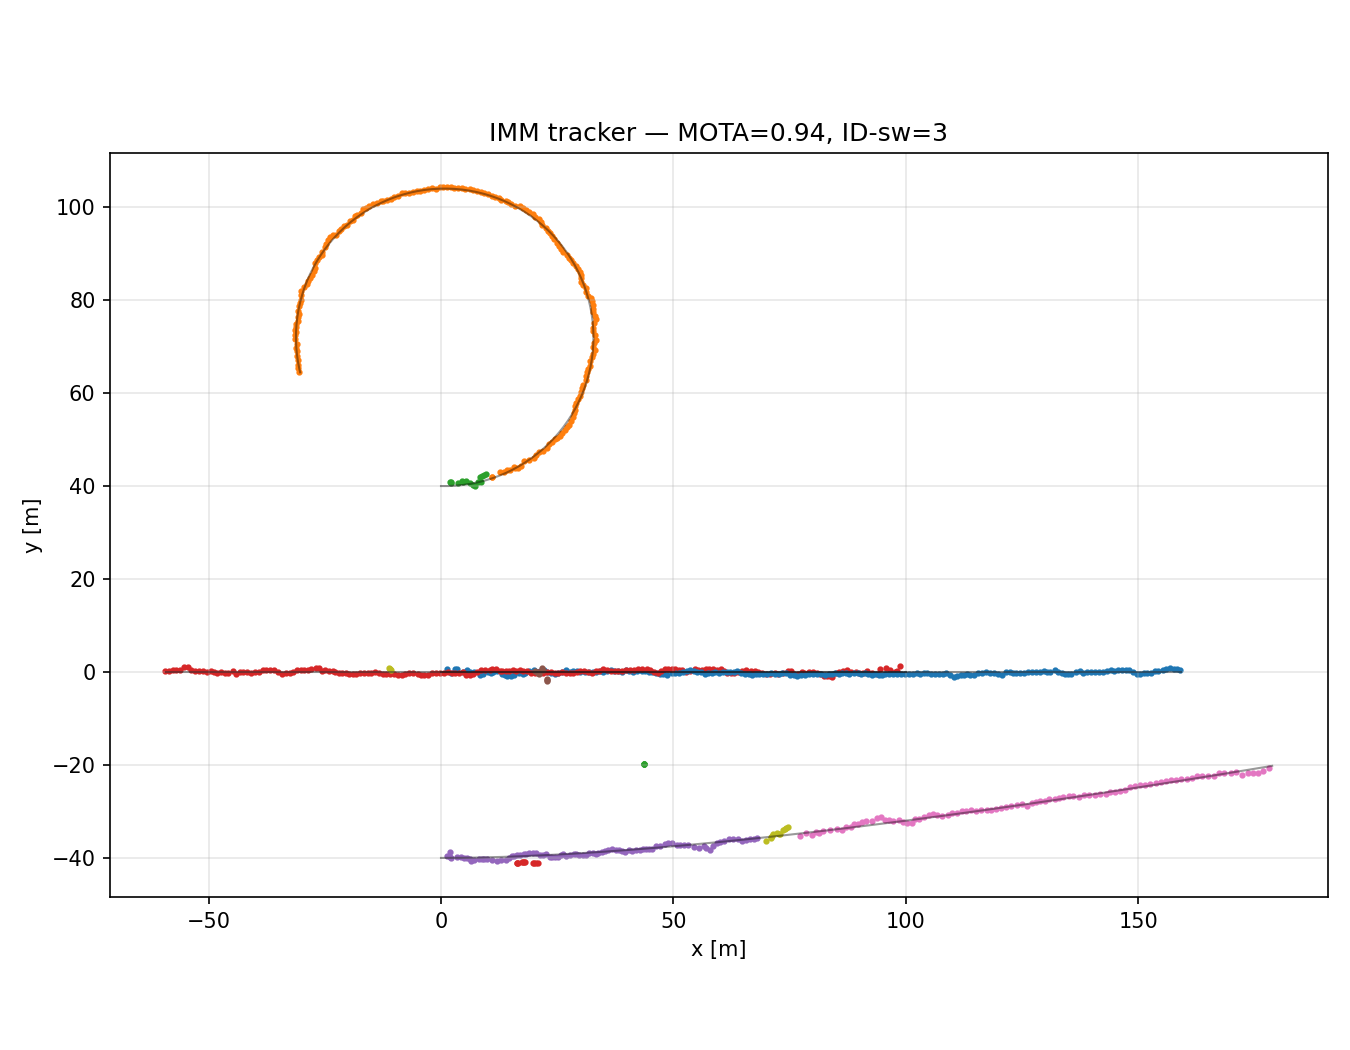
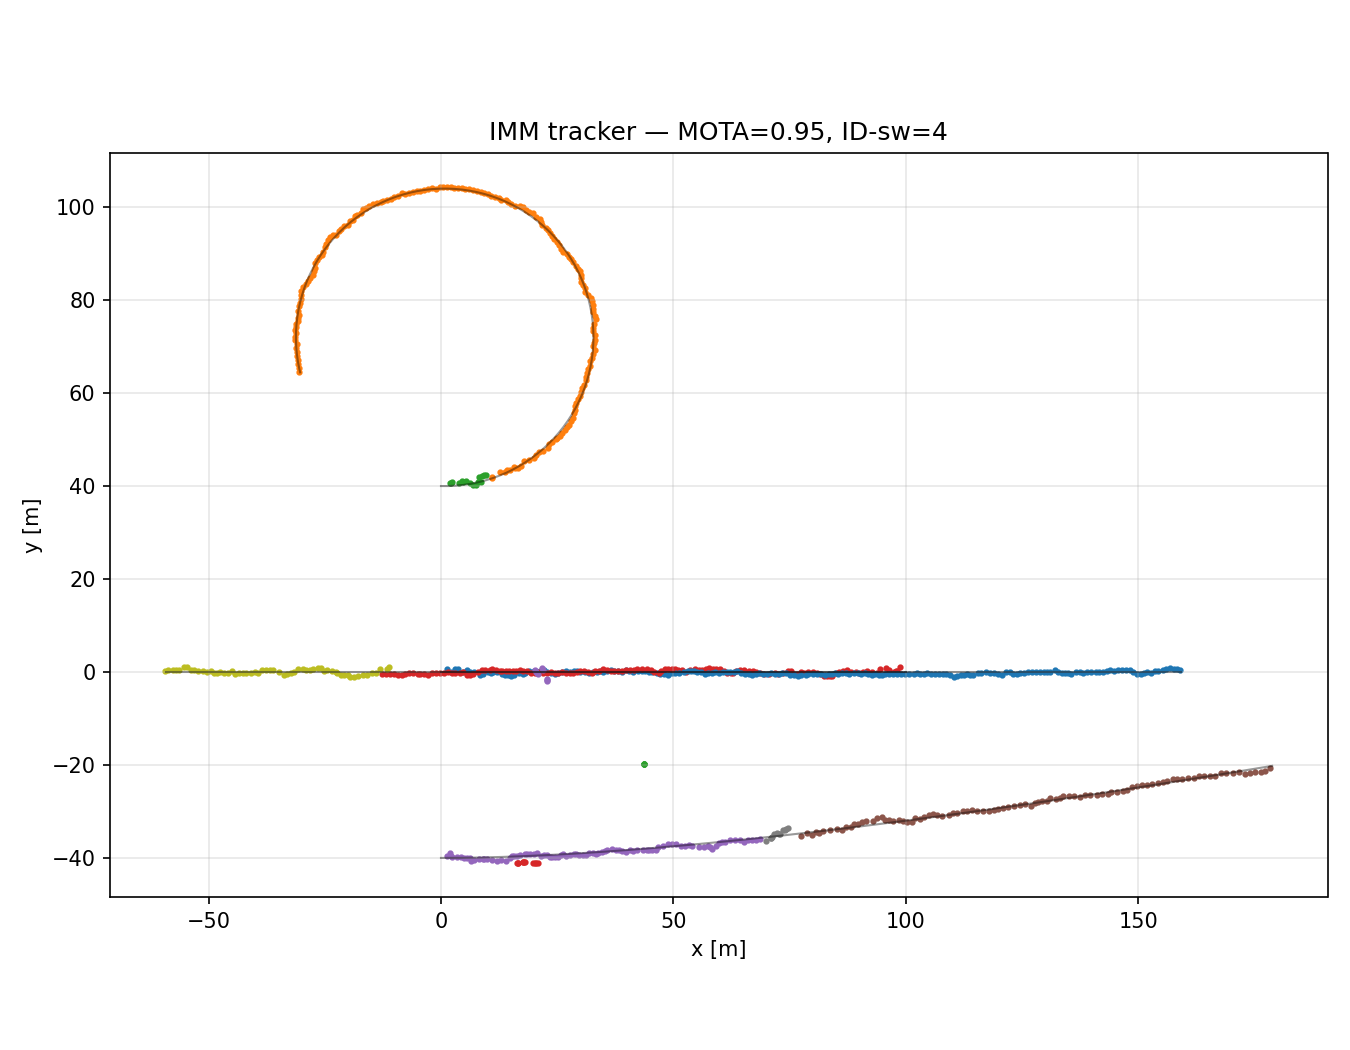
correct CA reference covariance round-trip

diff --git a/prototypes/python/tests/test_filter_invariants.py b/prototypes/python/tests/test_filter_invariants.py
@@ -3,7 +3,15 @@ from __future__ import annotations
 import numpy as np
 
 from ekf_synthetic import measurement_jacobian, measurement_model, wrap_angle
-from imm_synthetic import NUM_MODES, ImmScenarioConfig, mix_imm
+from imm_synthetic import (
+    CA_DIM,
+    NUM_MODES,
+    ImmScenarioConfig,
+    ca_matrices,
+    mix_imm,
+    ref_from_ca,
+    ref_to_ca,
+)
 from linear_kf import STATE_DIM, ScenarioConfig, cv_matrices, run_single_trial
 from ukf_synthetic import sigma_points, unscented_weights, weighted_covariance, weighted_mean
 
@@ -105,3 +113,31 @@ def test_imm_mixing_probabilities_and_covariances_are_well_formed() -> None:
         assert x.shape == (STATE_DIM,)
         assert p.shape == (STATE_DIM, STATE_DIM)
         assert_symmetric_psd(p)
+
+
+def test_ca_reference_conversion_is_an_exact_round_trip() -> None:
+    # ref_to_ca inflates [x,y,vx,vy] to the 6-state CA layout; ref_from_ca deflates it back.
+    # Distinct variances on every axis so any index permutation shows up (regression: ref_to_ca
+    # used np.ix_([0,2,1,3],...) and silently swapped var(y) with var(vx)).
+    x_ref = np.array([10.0, 20.0, 1.0, 2.0])
+    p_ref = np.diag([1.0, 2.0, 100.0, 200.0])
+
+    x_ca, p_ca = ref_to_ca(x_ref, p_ref)
+    assert x_ca.shape == (CA_DIM,)
+    assert p_ca.shape == (CA_DIM, CA_DIM)
+    np.testing.assert_allclose(x_ca[:STATE_DIM], x_ref, rtol=0.0, atol=1e-12)
+    assert_symmetric_psd(p_ca)
+
+    x_back, p_back = ref_from_ca(x_ca, p_ca)
+    np.testing.assert_allclose(x_back, x_ref, rtol=0.0, atol=1e-12)
+    np.testing.assert_allclose(p_back, p_ref, rtol=0.0, atol=1e-12)
+
+
+def test_ca_state_layout_is_x_y_vx_vy_ax_ay() -> None:
+    # The round-trip test above is only meaningful if CA really is [x,y,vx,vy,ax,ay].
+    # Pin it from F directly: x' = x + dt*vx + 0.5*dt^2*ax touches columns 0, 2, 4.
+    dt = 0.1
+    f, h, _, _ = ca_matrices(dt, sigma_pos=0.5, q_accel=2.0)
+    np.testing.assert_allclose(f[0], [1.0, 0.0, dt, 0.0, 0.5 * dt * dt, 0.0], atol=1e-12)
+    np.testing.assert_allclose(f[1], [0.0, 1.0, 0.0, dt, 0.0, 0.5 * dt * dt], atol=1e-12)
+    np.testing.assert_allclose(h @ np.arange(CA_DIM, dtype=float), [0.0, 1.0], atol=1e-12)

diff --git a/prototypes/python/imm_synthetic.py b/prototypes/python/imm_synthetic.py
@@ -98,7 +98,10 @@ def ref_to_ca(x_ref: np.ndarray, p_ref: np.ndarray) -> tuple[np.ndarray, np.ndar
     x = np.zeros(CA_DIM)
     x[0], x[1], x[2], x[3] = x_ref[0], x_ref[1], x_ref[2], x_ref[3]
     p = np.diag([1.0, 1.0, 1.0, 1.0, 0.5, 0.5]) * 10.0
-    p[np.ix_([0, 2, 1, 3], [0, 2, 1, 3])] = p_ref
+    # CA order is [x, y, vx, vy, ax, ay], so the first 4 slots ARE the reference order —
+    # a plain block copy. (Was np.ix_([0,2,1,3],...), which swapped var(y) with var(vx)
+    # and made ref_to_ca/ref_from_ca a non-identity round trip.)
+    p[:REF_DIM, :REF_DIM] = p_ref
     return x, p
 
 

diff --git a/docs/notes/tracking_imm_writeup.md b/docs/notes/tracking_imm_writeup.md
@@ -20,9 +20,54 @@ Detection probability p_detect=0.9 (missed detections), Poisson clutter λ=2 poi
 Detections are unlabeled 2D positions, shuffled per frame.
 
 ## Results (py-motmetrics)
-MOTA=0.944, MOTP=0.543 m, IDF1=0.834, ID-switches=3. Knobs: gate=9.21, min_hits=3, max_age=3,
-ω-bank=±0.25 rad/s, clutter λ=2. The few switches are dominated by the engineered A/B crossing,
-where two position-only detections at identical y are genuinely ambiguous to a GNN gate.
+MOTA=0.946, MOTP=0.522 m, IDF1=0.762, ID-switches=4 on the demo seed. Knobs: gate=9.21,
+min_hits=3, max_age=3, ω-bank=±0.25 rad/s, clutter λ=2. The few switches are dominated by the
+engineered A/B crossing, where two position-only detections at identical y are genuinely
+ambiguous to a GNN gate.
+
+Single-seed metrics on this scenario are noisy — over 12 seeds the means are MOTA=0.947,
+MOTP=0.578 m, IDF1=0.850, ID-switches=4.1. The demo seed happens to be a below-average one for
+IDF1, so read the seed-0 headline as an illustration, not as the scenario's expected value.
+
+### Correction (2026-07-27)
+Earlier numbers on this page were MOTA=0.944 / MOTP=0.543 / IDF1=0.834 / switches=3. They were
+produced with a bug in `imm_synthetic.ref_to_ca`, which inflates the 4-state reference
+`[x, y, vx, vy]` into the 6-state CA layout: it permuted the covariance block with
+`np.ix_([0,2,1,3], ...)` while `ref_from_ca` deflated with a plain `p[:4,:4]` slice, so the
+round trip was not the identity — var(y) and var(vx) were swapped every mixing step. The CA
+mode therefore ran with a wrong innovation covariance and a wrong likelihood, biasing the IMM
+mode probabilities. Fixed to a plain block copy; `test_filter_invariants.py` now pins both the
+round trip and the CA state layout. Effect over 12 seeds: MOTP −0.031 m, IDF1 +0.026,
+ID-switches 5.0 → 4.1.
+
+On the Stage 0.5 scenario the standalone CA filter improves ~13% while the combined IMM barely
+moves, because mixing was already down-weighting the broken mode — 24-seed means:
+
+| | rmse_ca | rmse_imm |
+|---|---|---|
+| pre-fix | 1.0176 | 0.6421 |
+| post-fix | **0.8854** | 0.6324 |
+
+Reproduce with (the `old` shim restores the pre-fix permutation):
+
+```bash
+cd prototypes/python && python3 -c "
+import numpy as np, imm_synthetic as im
+from imm_synthetic import ImmScenarioConfig, run_single_trial
+def old(x_ref, p_ref):
+    x = np.zeros(im.CA_DIM); x[:4] = np.asarray(x_ref, float).ravel()[:4]
+    p = np.diag([1.,1.,1.,1.,0.5,0.5]) * 10.0
+    p[np.ix_([0,2,1,3],[0,2,1,3])] = np.asarray(p_ref, float)
+    return x, p
+for tag, fn in (('pre-fix', old), ('post-fix', im.ref_to_ca)):
+    im.ref_to_ca = fn
+    r = np.array([[run_single_trial(ImmScenarioConfig(), seed=s)[k]
+                   for k in ('rmse_imm','rmse_ca')] for s in range(24)])
+    print(tag, 'rmse_ca=%.4f rmse_imm=%.4f' % (r[:,1].mean(), r[:,0].mean()))"
+```
+
+The 1e-9 IMM parity test did not catch the bug: both sides of that comparison call the same
+`ref_to_ca`.
 
 ![](../images/tracking_imm_summary.png)
 
